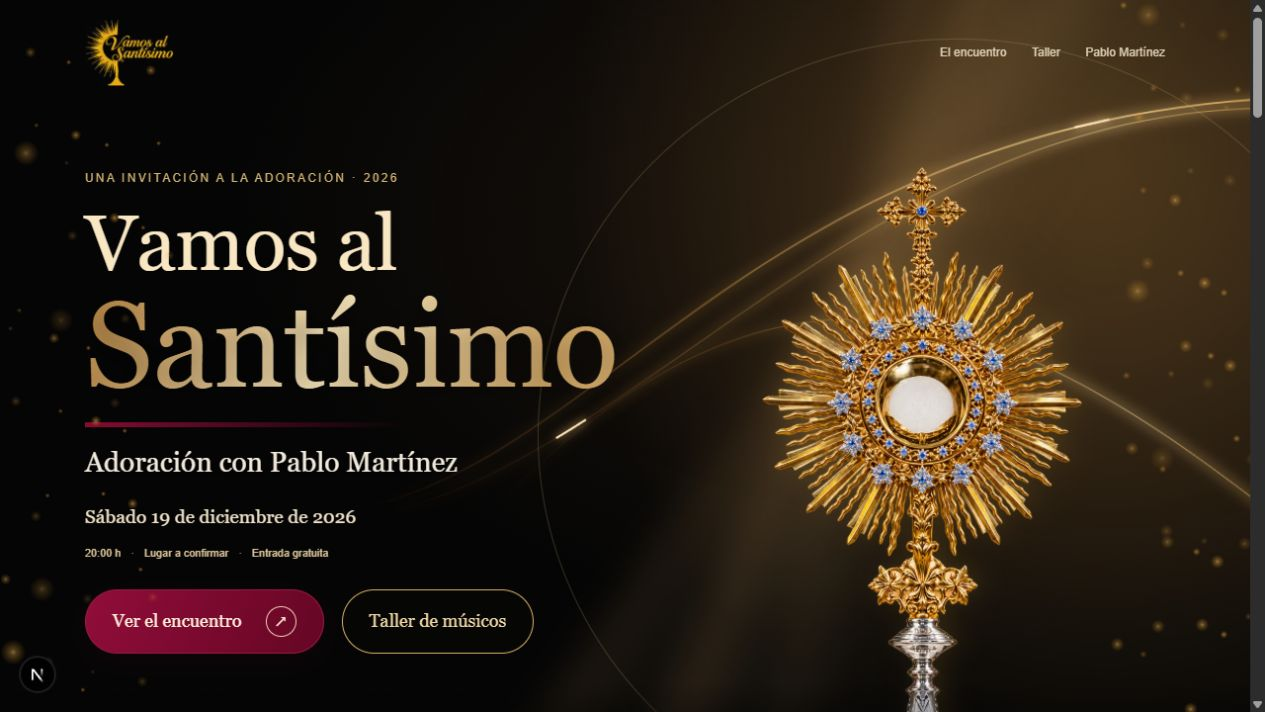
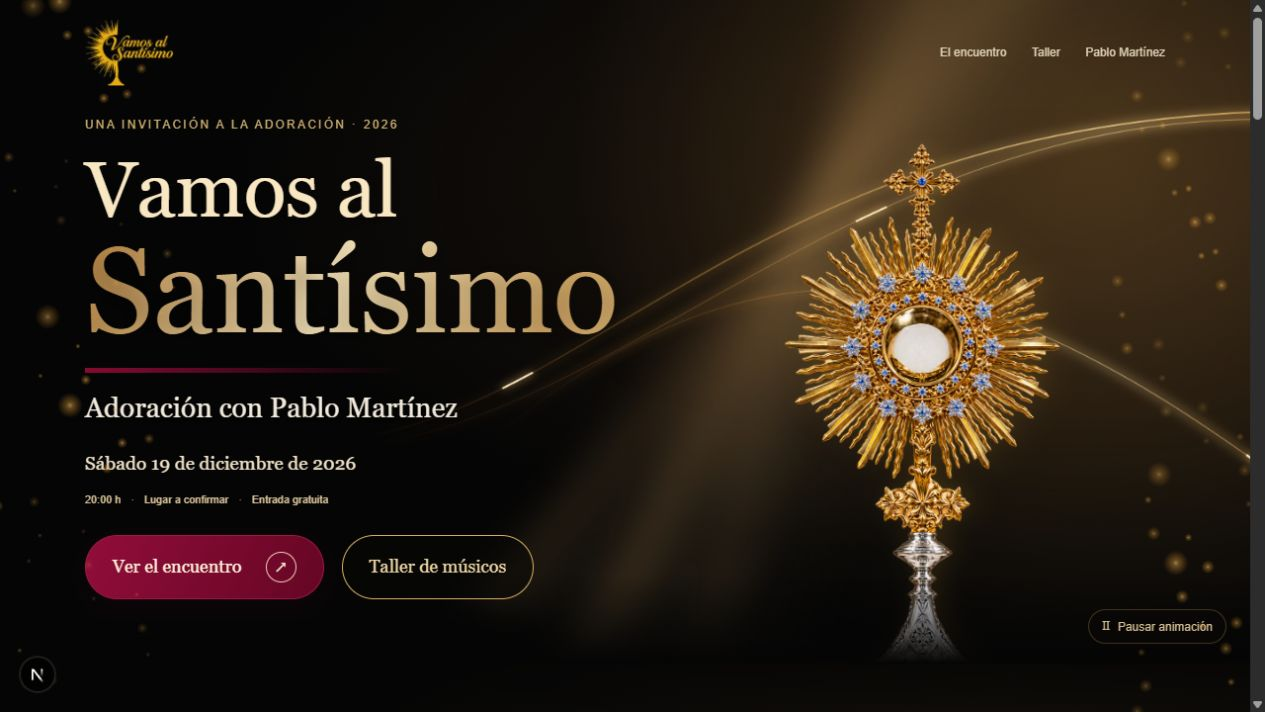
fix: remove hero oval and compact homepage introduction

diff --git a/components/golden-hero.module.css b/components/golden-hero.module.css
@@ -1,10 +1,9 @@
 .experience{position:relative;isolation:isolate;background:#050505}
-.stage{position:relative;isolation:isolate;min-height:max(780px,100svh);overflow:clip;background:#050505;color:#f9e7c3;font-family:Georgia,'Times New Roman',serif;display:flex;align-items:center}
+.stage{position:relative;isolation:isolate;min-height:clamp(640px,82svh,820px);overflow:clip;background:#050505;color:#f9e7c3;font-family:Georgia,'Times New Roman',serif;display:flex;align-items:center}
 .header{position:absolute;top:20px;left:6.8%;right:6.8%;display:flex;align-items:center;justify-content:space-between;gap:25px;z-index:4;font-family:Arial,Helvetica,sans-serif}
 .brand{display:block;flex-shrink:0}.brand img{display:block;width:90px;height:auto}
 .header nav{display:flex;flex-wrap:wrap;justify-content:flex-end;gap:clamp(16px,2vw,32px)}
 .header nav a{color:#e1d4b9;font-size:12px;text-decoration:none;padding:10px 0}.header nav a:hover{color:#ffe2a6}
-.devotionalOutline{position:absolute;inset:5% -10% -8% 43%;border:1px solid #bda26d44;border-radius:50%;z-index:0;pointer-events:none}
 .stage::after{content:'';position:absolute;bottom:0;left:0;right:0;height:90px;z-index:2;pointer-events:none;background:linear-gradient(transparent,#050505)}
 .atmosphere{position:absolute;inset:0;z-index:0;pointer-events:none;background:radial-gradient(ellipse at 82% 28%,#4d341c61,transparent 55%)}
 .halo{position:absolute;inset:-20% -15% -20% 38%;background:radial-gradient(ellipse at 65% 30%,#d2974845,transparent 58%);animation:gold-breathe 9s ease-in-out infinite alternate}
@@ -18,7 +17,7 @@
 .portrait{position:absolute;right:6%;bottom:-8%;height:87%;width:min(40vw,650px);z-index:1;pointer-events:none;mask-image:linear-gradient(to bottom,#000 90%,transparent 100%)}
 .portrait img{height:100%;width:100%;object-fit:contain;object-position:center bottom;filter:drop-shadow(8px -3px 12px #e8ac3b24)}
 .dust{position:fixed;inset:0;width:100%;height:100svh;z-index:5;pointer-events:none}
-.copy{position:relative;z-index:3;margin:0 0 0 6.8%;width:58%;padding:150px 0 95px;animation:copy-arrive 1.1s ease-out both}
+.copy{position:relative;z-index:3;margin:0 0 0 6.8%;width:58%;padding:120px 0 65px;animation:copy-arrive 1.1s ease-out both}
 .overline{font:clamp(9px,.9vw,13px) Arial,Helvetica,sans-serif;letter-spacing:.22em;text-transform:uppercase;color:#d2b473;margin:0 0 24px}
 .date{font-size:clamp(16px,1.5vw,23px);color:#efe2c8;margin:23px 0 13px;line-height:1.5}
 .details{font:clamp(10px,.85vw,13px)/1.8 Arial,Helvetica,sans-serif;color:#dac49a;display:flex;flex-wrap:wrap;gap:10px;margin:0}
@@ -48,7 +47,7 @@
 @media(min-width:1800px){.copy{margin-left:max(7%,calc((100vw - 1600px)/2))}.portrait{right:6%}}
 @media(max-width:1000px) and (min-width:701px){.portrait{width:42vw;right:1%}.copy{margin-left:5%;width:65%}.actions{gap:12px}.primary,.secondary{padding:12px 20px}}
 @media(max-width:700px){
- .stage{min-height:max(1020px,100svh);align-items:flex-start}
+ .stage{min-height:940px;align-items:flex-start}
  .header{top:16px;left:22px;right:22px;gap:16px}.brand img{width:65px}.header nav{gap:15px}.header nav a{font-size:10px}
  .copy{width:100%;margin:0;padding:135px 24px 0;text-align:center}
  .overline{font-size:9px;letter-spacing:.16em;margin-bottom:20px}
@@ -60,8 +59,7 @@
  .actions{justify-content:center;gap:10px;margin-top:25px}
  .primary,.secondary{font-size:14px;padding:10px 17px;gap:12px;min-height:46px}
  .primary span{width:24px;height:24px}
- .portrait{height:480px;width:100%;right:0;bottom:-28px;mask-image:linear-gradient(#000 88%,transparent 100%)}
- .devotionalOutline{inset:48% -22% -10% 20%}
+ .portrait{height:420px;width:100%;right:0;bottom:-28px;mask-image:linear-gradient(#000 88%,transparent 100%)}
  .ribbons{top:30%;height:70%;width:180%;left:-60%}
  .halo{inset:-30% -50% -10% -50%}
  .beams{top:5%;right:-40%;width:150%;height:110%}

diff --git a/components/golden-hero.tsx b/components/golden-hero.tsx
@@ -93,7 +93,6 @@ export default function GoldenHero({ children }: { children?: ReactNode }) {
           </g>
         </svg>
       </div>
-      <div className={styles.devotionalOutline} aria-hidden="true" />
       <div className={styles.portrait}>
         <Image src="/2026/adoracion/santisimo-portada.png" alt="Santísimo Sacramento en una custodia dorada" width={874} height={1799} preload sizes="(max-width: 700px) 70vw, 40vw" />
       </div>
